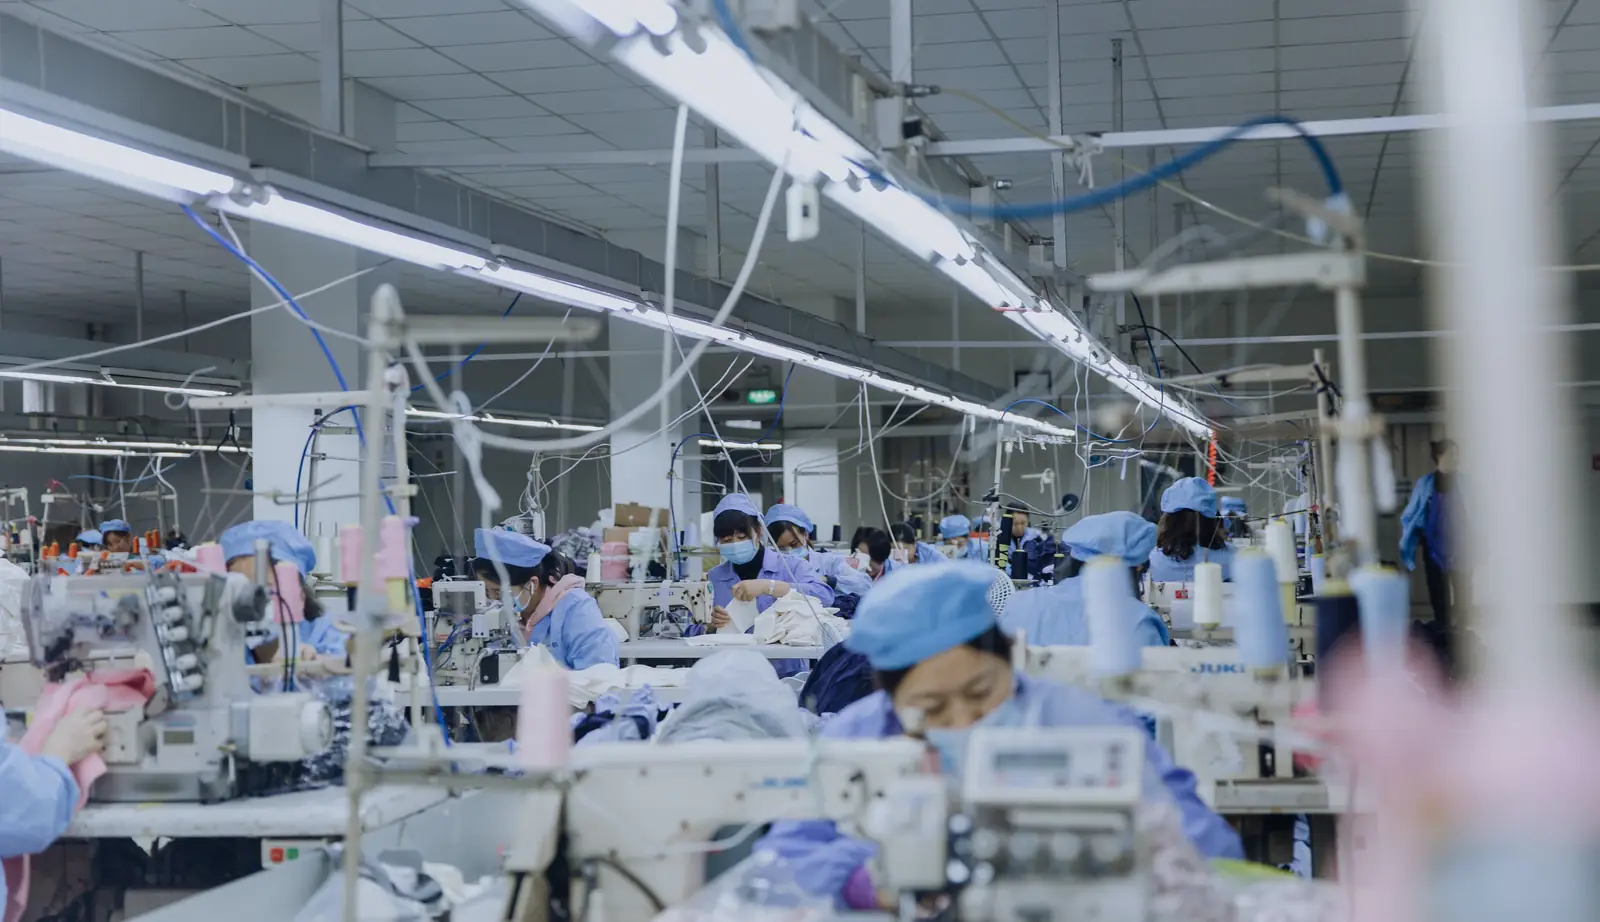
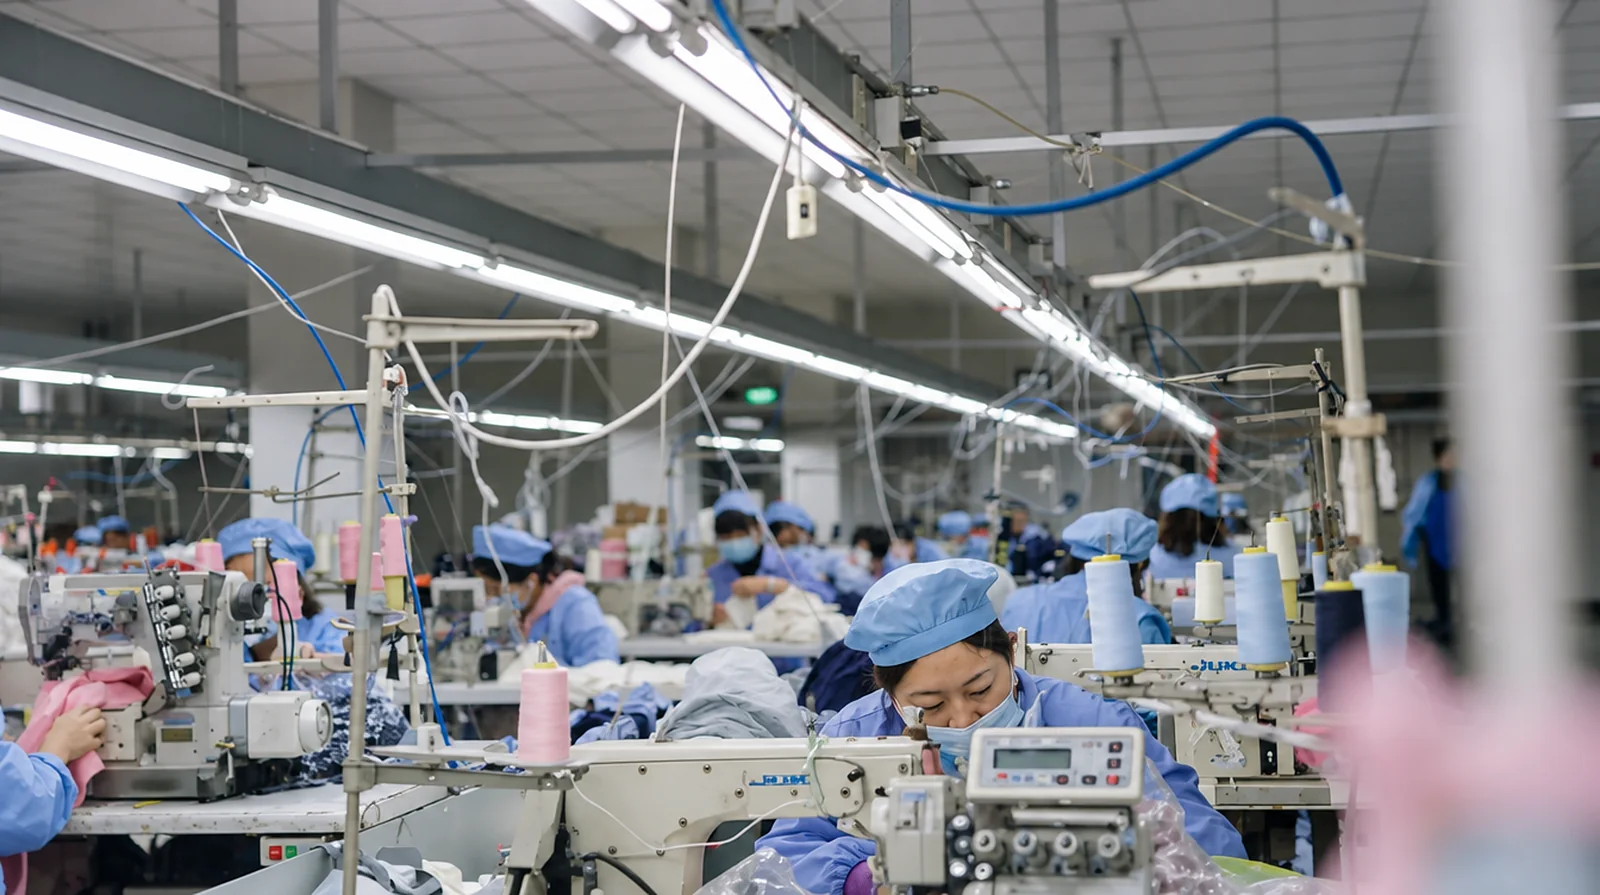
style(bsf): 공장 사진 9장(닝보 · 양곤 · 양저우) GPT로 같은 장면 DSLR 느낌 가공, T1 작은 사진 3장 위아래 확장해 3:4 칸을 꽉 채움, 숫자 올라가기를 자리별 굴러가는 오도미터로(함께 멈춤 · 강조선 · + 등장), css 캐시 번호 올림

diff --git a/bsf/js/site.js b/bsf/js/site.js
@@ -48,20 +48,34 @@
   }
 
   /* 스크롤 등장 + 숫자 올라가기 */
-  // 숫자 올라가기 (사용자 지시 2026-11-12): 한 묶음의 숫자는 모두 같은 속도(같은 수만큼)로 가장 큰 숫자까지 오른다.
-  //   작은 숫자는 제 숫자에 닿으면 0부터 다시 돌고, 마지막 순간에 모두 함께 제 숫자로 멈춘다
-  function countUp(el, max) {
-    var to = parseFloat(el.getAttribute('data-count')), dec = (el.getAttribute('data-count').split('.')[1] || '').length;
-    if (reduce || dec) { el.firstChild.nodeValue = dec ? to.toFixed(dec) : to.toLocaleString('en-US'); return; }
-    max = Math.max(to, max || to);
-    var t0 = null, dur = 1500;
-    function step(t) {
-      if (!t0) t0 = t;
-      var p = Math.min(1, (t - t0) / dur), c = Math.floor(p * max);
-      el.firstChild.nodeValue = (p >= 1 ? to : c % (to + 1)).toLocaleString('en-US');
-      if (p < 1) requestAnimationFrame(step);
-    }
-    requestAnimationFrame(step);
+  // 숫자 올라가기 (사용자 지시 2026-11-13 "더 세련되게"): 자리마다 숫자 띠가 굴러 올라가는 오도미터.
+  //   일의 자리가 가장 많이 돌고 먼저 출발, 윗자리는 조금 늦게 덜 돈다. 한 묶음은 모두 같은 순간에 부드럽게 내려앉는다
+  var ODO_T = 2200;
+  function countUp(el) {
+    var raw = el.getAttribute('data-count'), to = parseFloat(raw), dec = (raw.split('.')[1] || '').length;
+    var txt = dec ? to.toFixed(dec) : to.toLocaleString('en-US');
+    el.setAttribute('aria-label', txt);
+    if (reduce || dec) { el.textContent = txt; return; }
+    var chars = txt.split(''), n = 0, html = '';
+    chars.forEach(function (ch) { if (/\d/.test(ch)) n++; });
+    var k = 0;
+    chars.forEach(function (ch) {
+      if (!/\d/.test(ch)) { html += '<span class="odo-c" aria-hidden="true">' + ch + '</span>'; return; }
+      var pos = n - 1 - k++;                      // 0 = 일의 자리
+      var spins = Math.max(1, 3 - pos), strip = '';
+      for (var i = 0; i <= spins * 10 + +ch; i++) strip += '<i>' + (i % 10) + '</i>';
+      html += '<span class="odo-d" aria-hidden="true"><span class="odo-s" data-to="' + (spins * 10 + +ch) + '" data-delay="' + pos * 140 + '">' + strip + '</span></span>';
+    });
+    el.innerHTML = html;
+    el.classList.add('odo');
+    el.offsetWidth;                                   // 시작 위치를 먼저 그리게
+    $$('.odo-s', el).forEach(function (s) {
+      var d = +s.getAttribute('data-delay');
+      s.style.transitionDelay = d + 'ms';
+      s.style.transitionDuration = (ODO_T - d) + 'ms';
+      s.style.transform = 'translateY(-' + s.getAttribute('data-to') + 'em)';
+    });
+    el.classList.add('go');
   }
   var rvs = $$('.rv, .world'), counts = $$('[data-count]');
   if ('IntersectionObserver' in window) {
@@ -72,8 +86,8 @@
         if (el.hasAttribute('data-count')) {
           // 같은 묶음(.stats 등)의 숫자는 함께 출발한다
           var grp = el.closest('.stats, ul, .fac-cards') || el, all = $$('[data-count]', grp);
-          var big = Math.max.apply(null, all.map(function (c) { return parseFloat(c.getAttribute('data-count')) || 0; }));
-          all.forEach(function (c) { if (!c._ran) { c._ran = true; io.unobserve(c); countUp(c, big); } });
+          all.forEach(function (c) { if (!c._ran) { c._ran = true; io.unobserve(c); countUp(c); } });
+          if (grp.classList) grp.classList.add('counted');
         } else el.classList.add('in');
         io.unobserve(el);
       });

diff --git a/bsf/css/style.css b/bsf/css/style.css
@@ -184,6 +184,18 @@ button, input, select, textarea { font: inherit; color: inherit; }
 .stats b { display: flex; align-items: flex-start; font-family: var(--display); font-size: clamp(54px, 7.4vw, 112px); font-weight: 800; line-height: 1; letter-spacing: -.045em; color: var(--navy); font-variant-numeric: tabular-nums; }
 .stats b sup { margin: .06em 0 0 4px; font-size: .42em; line-height: 1; color: var(--accent); }
 .stats li > span { display: block; margin-top: 14px; color: var(--sub); font-size: clamp(15px, 1.15vw, 18px); font-weight: 600; letter-spacing: -.01em; }
+/* 숫자 오도미터 (js countUp) — 자리마다 띠가 굴러 올라가 부드럽게 멈춤, 도는 동안 살짝 흐림 */
+.odo { display: inline-flex; }
+.odo-d { display: inline-block; height: 1em; overflow: hidden; }
+.odo-s { display: block; transition-property: transform; transition-timing-function: cubic-bezier(.16, .84, .22, 1); will-change: transform; }
+.odo-s i { display: block; height: 1em; font-style: normal; }
+.odo.go .odo-s { animation: odo-blur 2.2s cubic-bezier(.3, 0, .2, 1) both; }
+@keyframes odo-blur { 0% { filter: blur(0); opacity: .35; } 18% { filter: blur(2.5px); opacity: 1; } 70% { filter: blur(.6px); } 100% { filter: blur(0); } }
+.stats li::before { transform-origin: left; transform: scaleX(0); transition: transform 1.2s cubic-bezier(.22, .8, .24, 1) .2s; }
+.stats.counted li::before { transform: scaleX(1); }
+.stats b sup { opacity: 0; transform: translateY(.4em) scale(.6); transition: opacity .5s ease 2s, transform .6s cubic-bezier(.3, 1.6, .5, 1) 2s; }
+.stats.counted b sup { opacity: 1; transform: none; }
+@media (prefers-reduced-motion: reduce) { .stats li::before, .stats b sup { transform: none; opacity: 1; transition: none; } }
 /* 선언문 붙여 두기: 이 칸 높이만큼 스크롤하는 동안 글자가 채워진다 */
 .state-track { position: relative; height: 230vh; }
 .state-pin { position: sticky; top: 0; min-height: 100vh; display: flex; flex-direction: column; justify-content: center; padding: calc(var(--hd) + 20px) 0 40px; }
@@ -217,9 +229,8 @@ button, input, select, textarea { font: inherit; color: inherit; }
 .spot-facts dd { margin: 4px 0 0; font-size: 16.5px; font-weight: 700; overflow-wrap: normal; }
 .spot-thumbs { display: grid; grid-template-columns: repeat(3, 1fr); gap: 10px; margin: 0 0 36px; }
 .spot-thumbs figure { margin: 0; border-radius: 12px; overflow: hidden; background: #111; }
-.spot-thumbs img { width: 100%; aspect-ratio: 4 / 3; object-fit: cover; object-position: 50% 50%; transition: transform .8s var(--ease); }
+.spot-thumbs img { width: 100%; aspect-ratio: 3 / 4; object-fit: cover; object-position: 50% 50%; transition: transform .8s var(--ease); }
 .spot-thumbs figure:hover img { transform: scale(1.06); }
-.spot-thumbs .fit img { object-fit: contain; }
 
 /* ───── 품목 ───── */
 .cats { display: grid; gap: 18px; }

diff --git a/bsf/index.html b/bsf/index.html
@@ -20,7 +20,7 @@
 <link rel="preconnect" href="https://fonts.gstatic.com" crossorigin>
 <link rel="stylesheet" href="https://fonts.googleapis.com/css2?family=Montserrat:wght@600;700;800&display=swap">
 <link rel="stylesheet" href="https://cdn.jsdelivr.net/gh/orioncactus/pretendard@v1.3.9/dist/web/variable/pretendardvariable-dynamic-subset.min.css">
-<link rel="stylesheet" href="css/style.css?v=20261113v">
+<link rel="stylesheet" href="css/style.css?v=20261113w">
 <script src="js/site.js?v=20261113p" defer></script>
 <script src="js/globe.js?v=20261113a" defer></script>
 <script type="speculationrules">{"prefetch":[{"where":{"and":[{"href_matches":"/*"},{"not":{"href_matches":"/xms/*"}},{"not":{"href_matches":"/member/*"}},{"not":{"href_matches":"/board/*"}}]},"eagerness":"moderate"}]}</script>
@@ -82,7 +82,7 @@
         <h2 class="title rv d1">Made for<br>the <span class="gold">world stage.</span></h2>
         <p class="lead rv d2">2023 리그 오브 레전드 월드 챔피언십. T1 선수단이 세계 무대에서 입은 유니폼 자켓과 팬츠를 BSF가 생산했습니다. 스폰서 로고가 빼곡한 기능성 유니폼을 대회 일정에 맞춰 만들었습니다.</p>
         <dl class="spot-facts rv d2"><div><dt>클라이언트</dt><dd>T1 × GOALSTUDIO</dd></div><div><dt>품목</dt><dd>유니폼 자켓 · 팬츠</dd></div><div><dt>무대</dt><dd>2023 월드 챔피언십</dd></div></dl>
-        <div class="spot-thumbs rv d3"><figure><img decoding="async" src="images/works/t1-pants-pair.webp" alt="T1 2023 월즈 유니폼 팬츠 앞 · 뒤" loading="lazy"></figure><figure><img decoding="async" src="images/works/t1-windbreaker.webp" alt="T1 2023 월즈 유니폼 후드 자켓 앞 · 뒤" loading="lazy"></figure><figure class="fit"><img decoding="async" src="images/works/t1-team-stage.webp" alt="경기장에 선 T1 선수단 유니폼 뒷모습" loading="lazy"></figure></div>
+        <div class="spot-thumbs rv d3"><figure><img decoding="async" src="images/works/t1-pants-pair-tall.webp" alt="T1 2023 월즈 유니폼 팬츠 앞 · 뒤" loading="lazy"></figure><figure><img decoding="async" src="images/works/t1-windbreaker-tall.webp" alt="T1 2023 월즈 유니폼 후드 자켓 앞 · 뒤" loading="lazy"></figure><figure><img decoding="async" src="images/works/t1-team-stage-tall.webp" alt="경기장에 선 T1 선수단 유니폼 뒷모습" loading="lazy"></figure></div>
         <div class="rv d3"><a class="btn line" href="works.html#t1">납품실적 보기</a></div>
       </div>
     </div>

diff --git a/bsf/capability.html b/bsf/capability.html
@@ -19,7 +19,7 @@
 <link rel="preconnect" href="https://fonts.gstatic.com" crossorigin>
 <link rel="stylesheet" href="https://fonts.googleapis.com/css2?family=Montserrat:wght@600;700;800&display=swap">
 <link rel="stylesheet" href="https://cdn.jsdelivr.net/gh/orioncactus/pretendard@v1.3.9/dist/web/variable/pretendardvariable-dynamic-subset.min.css">
-<link rel="stylesheet" href="css/style.css?v=20261113v">
+<link rel="stylesheet" href="css/style.css?v=20261113w">
 <script src="js/globe.js?v=20261113a" defer></script>
 <script src="js/site.js?v=20261113p" defer></script>
 <script type="speculationrules">{"prefetch":[{"where":{"and":[{"href_matches":"/*"},{"not":{"href_matches":"/xms/*"}},{"not":{"href_matches":"/member/*"}},{"not":{"href_matches":"/board/*"}}]},"eagerness":"moderate"}]}</script>

diff --git a/bsf/_layout.html b/bsf/_layout.html
@@ -19,7 +19,7 @@
 <link rel="preconnect" href="https://fonts.gstatic.com" crossorigin>
 <link rel="stylesheet" href="https://fonts.googleapis.com/css2?family=Montserrat:wght@600;700;800&display=swap">
 <link rel="stylesheet" href="https://cdn.jsdelivr.net/gh/orioncactus/pretendard@v1.3.9/dist/web/variable/pretendardvariable-dynamic-subset.min.css">
-<link rel="stylesheet" href="css/style.css?v=20261113v">
+<link rel="stylesheet" href="css/style.css?v=20261113w">
 <script src="js/site.js?v=20261113p" defer></script>
 <script type="speculationrules">{"prefetch":[{"where":{"and":[{"href_matches":"/*"},{"not":{"href_matches":"/xms/*"}},{"not":{"href_matches":"/member/*"}},{"not":{"href_matches":"/board/*"}}]},"eagerness":"moderate"}]}</script>
 </head>

diff --git a/bsf/about.html b/bsf/about.html
@@ -19,7 +19,7 @@
 <link rel="preconnect" href="https://fonts.gstatic.com" crossorigin>
 <link rel="stylesheet" href="https://fonts.googleapis.com/css2?family=Montserrat:wght@600;700;800&display=swap">
 <link rel="stylesheet" href="https://cdn.jsdelivr.net/gh/orioncactus/pretendard@v1.3.9/dist/web/variable/pretendardvariable-dynamic-subset.min.css">
-<link rel="stylesheet" href="css/style.css?v=20261113v">
+<link rel="stylesheet" href="css/style.css?v=20261113w">
 <script src="js/site.js?v=20261113p" defer></script>
 <script type="speculationrules">{"prefetch":[{"where":{"and":[{"href_matches":"/*"},{"not":{"href_matches":"/xms/*"}},{"not":{"href_matches":"/member/*"}},{"not":{"href_matches":"/board/*"}}]},"eagerness":"moderate"}]}</script>
 </head>

diff --git a/bsf/brand.html b/bsf/brand.html
@@ -19,7 +19,7 @@
 <link rel="preconnect" href="https://fonts.gstatic.com" crossorigin>
 <link rel="stylesheet" href="https://fonts.googleapis.com/css2?family=Montserrat:wght@600;700;800&display=swap">
 <link rel="stylesheet" href="https://cdn.jsdelivr.net/gh/orioncactus/pretendard@v1.3.9/dist/web/variable/pretendardvariable-dynamic-subset.min.css">
-<link rel="stylesheet" href="css/style.css?v=20261113v">
+<link rel="stylesheet" href="css/style.css?v=20261113w">
 <script src="js/site.js?v=20261113p" defer></script>
 <script type="speculationrules">{"prefetch":[{"where":{"and":[{"href_matches":"/*"},{"not":{"href_matches":"/xms/*"}},{"not":{"href_matches":"/member/*"}},{"not":{"href_matches":"/board/*"}}]},"eagerness":"moderate"}]}</script>
 </head>

diff --git a/bsf/contact.html b/bsf/contact.html
@@ -19,7 +19,7 @@
 <link rel="preconnect" href="https://fonts.gstatic.com" crossorigin>
 <link rel="stylesheet" href="https://fonts.googleapis.com/css2?family=Montserrat:wght@600;700;800&display=swap">
 <link rel="stylesheet" href="https://cdn.jsdelivr.net/gh/orioncactus/pretendard@v1.3.9/dist/web/variable/pretendardvariable-dynamic-subset.min.css">
-<link rel="stylesheet" href="css/style.css?v=20261113v">
+<link rel="stylesheet" href="css/style.css?v=20261113w">
 <script src="js/site.js?v=20261113p" defer></script>
 <script type="speculationrules">{"prefetch":[{"where":{"and":[{"href_matches":"/*"},{"not":{"href_matches":"/xms/*"}},{"not":{"href_matches":"/member/*"}},{"not":{"href_matches":"/board/*"}}]},"eagerness":"moderate"}]}</script>
 </head>

diff --git a/bsf/works.html b/bsf/works.html
@@ -19,7 +19,7 @@
 <link rel="preconnect" href="https://fonts.gstatic.com" crossorigin>
 <link rel="stylesheet" href="https://fonts.googleapis.com/css2?family=Montserrat:wght@600;700;800&display=swap">
 <link rel="stylesheet" href="https://cdn.jsdelivr.net/gh/orioncactus/pretendard@v1.3.9/dist/web/variable/pretendardvariable-dynamic-subset.min.css">
-<link rel="stylesheet" href="css/style.css?v=20261113v">
+<link rel="stylesheet" href="css/style.css?v=20261113w">
 <script src="js/site.js?v=20261113p" defer></script>
 <script type="speculationrules">{"prefetch":[{"where":{"and":[{"href_matches":"/*"},{"not":{"href_matches":"/xms/*"}},{"not":{"href_matches":"/member/*"}},{"not":{"href_matches":"/board/*"}}]},"eagerness":"moderate"}]}</script>
 </head>
